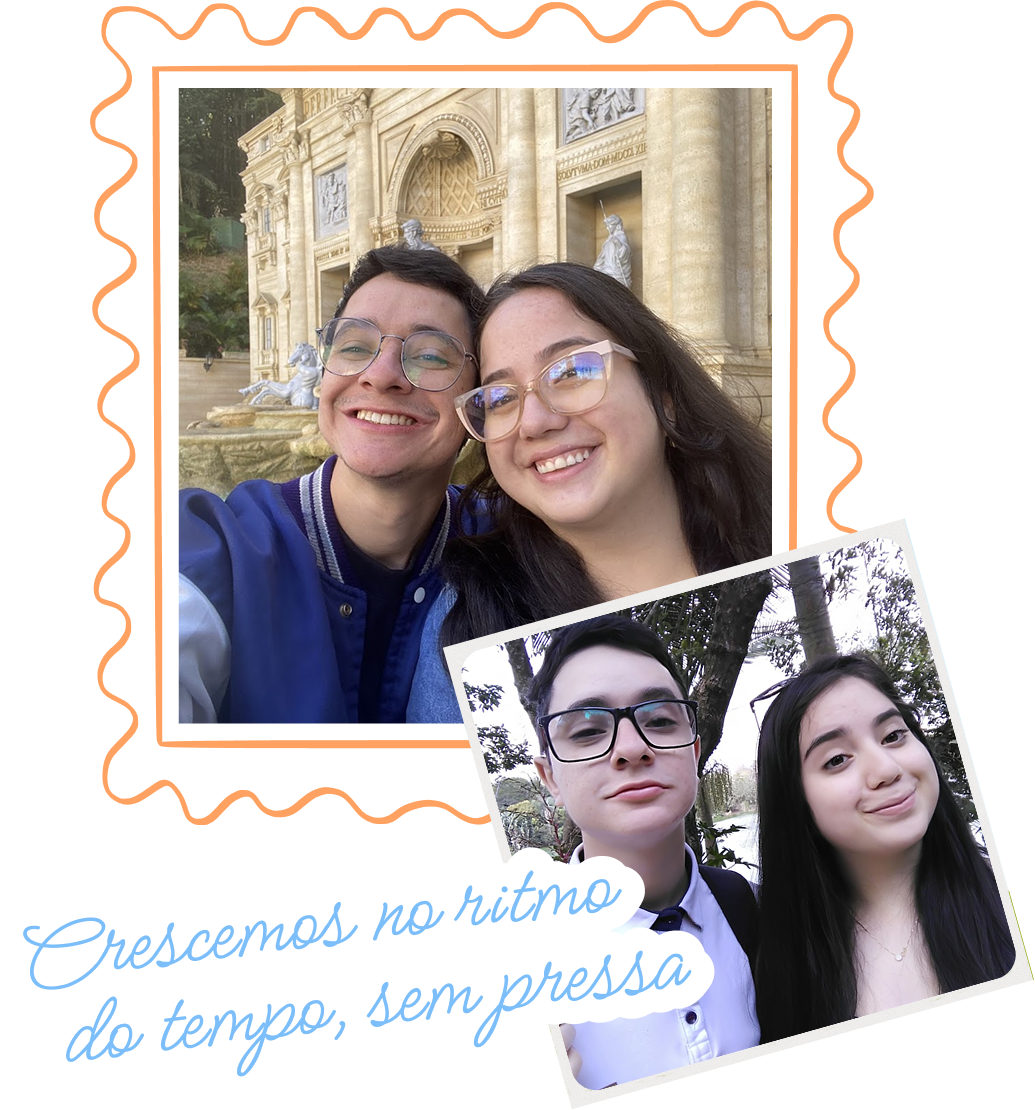
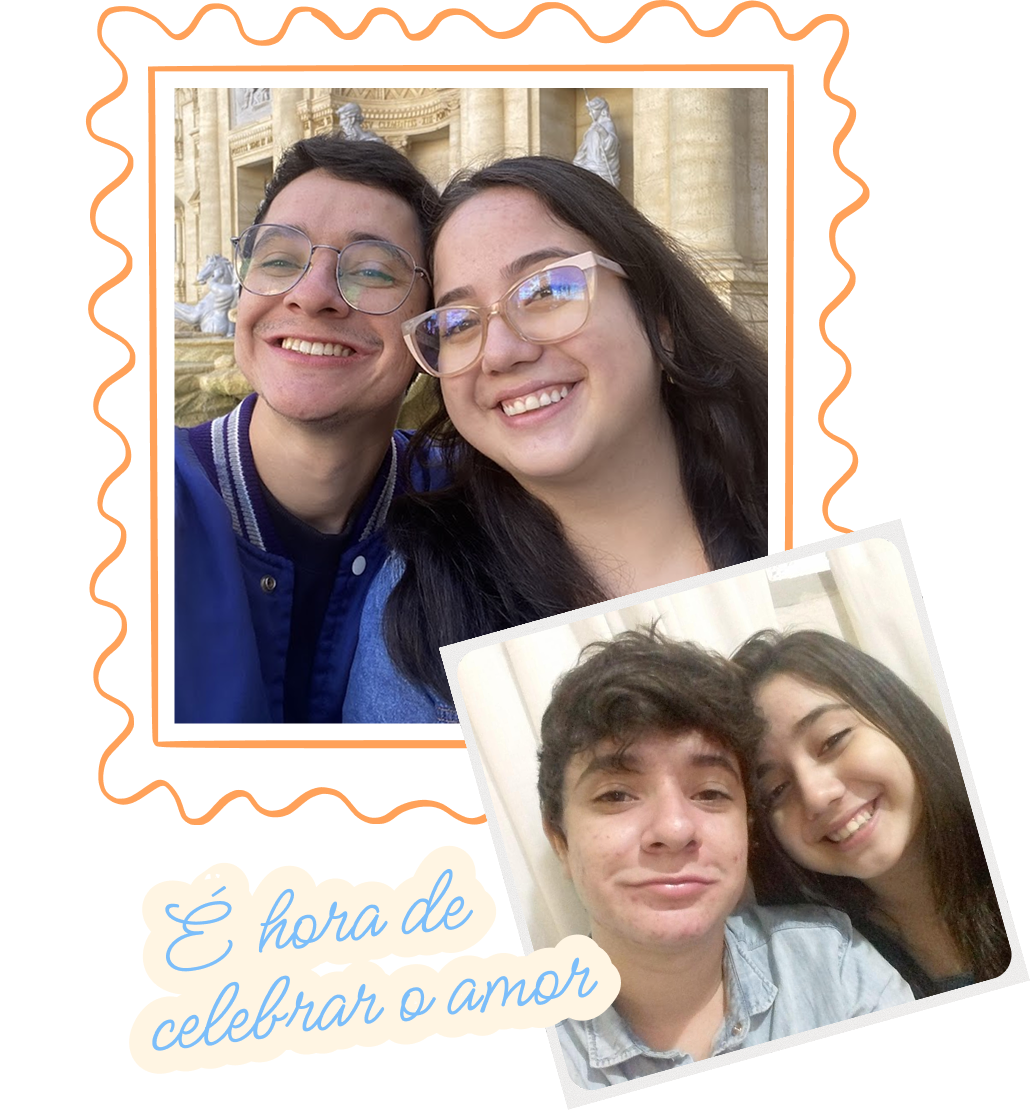
finalizando detalhes pequenos para prod

diff --git a/src/components/Info.tsx b/src/components/Info.tsx
@@ -14,7 +14,7 @@ export function Info() {
         <section className="px-4 py-12 md:p-12 w-full bg-purple flex flex-col md:flex-row justify-center gap-12 items-center">
             <div className="md:w-[40%] gap-8 md:gap-12 flex flex-col items-center justify-center">
                 <Image src={larielLogo} alt="Logo Lariel" className="w-full max-w-[200px] md:max-w-[300px]" style={{ transform: 'rotate(-10deg)' }}/>
-                <H1>25/07 às 15h30</H1>
+                <H1>25/07 às 15h</H1>
                 <div className="flex flex-col items-center justify-center gap-4">
                 <RSVPModal variant="secondary" className="-rotate-2"></RSVPModal> 
                 <Button variant='secondary' className="rotate-1" href="/gifts">Lista de presentes</Button>

diff --git a/src/app/page.tsx b/src/app/page.tsx
@@ -42,7 +42,7 @@ export default function Home() {
             <>
               Se quiser contribuir com esse novo capitulo das nossas vidas, seu presente será carinhosamente transformado em momentos inesqueciveis na nossa lua de mel e nos próximos planos da nossa família.<br/><br/>
               
-              No nosso site, você pode escolher um presente da lista ou contribuir via Pix.
+              <a href='/gifts' className="text-blue text-xl underline transition-all hover:scale-105 active:scale-95">Neste link</a> você pode escolher um presente da lista ou contribuir via PIX.
             </>)
         },
         {
